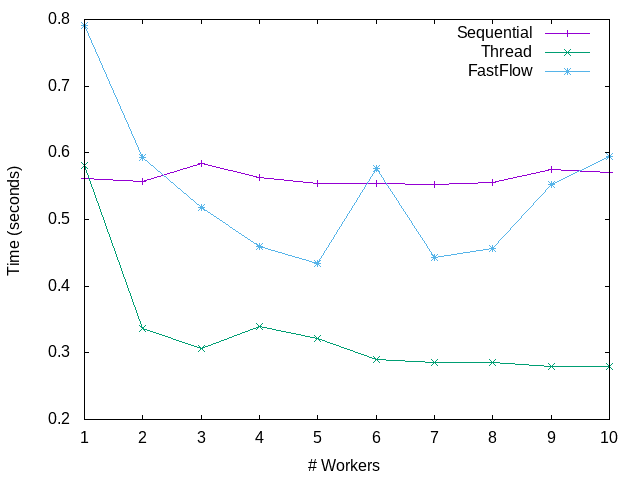
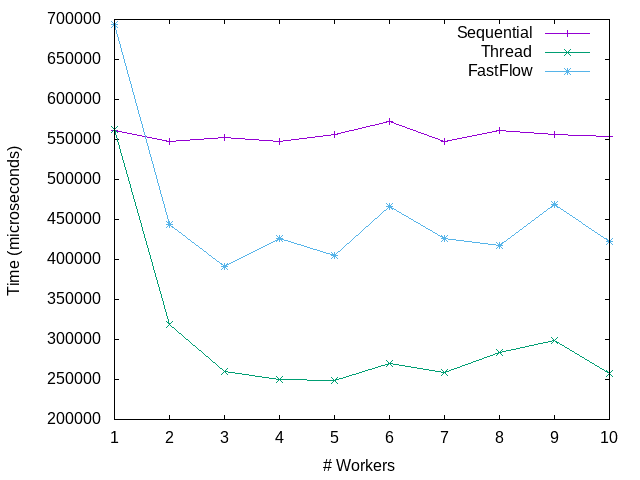
Added speedup plotting

diff --git a/main.cpp b/main.cpp
@@ -63,8 +63,8 @@ int main(int argc, char *argv[]){
 	high_resolution_clock::time_point start;
 	high_resolution_clock::time_point stop;
 
-	int cycle_time=0;
-	int program_time=0;
+	auto cycle_time=0;
+	auto program_time=0;
 
 	// ********************************* input reading /**********************************/
 	int N_NODES=10;
@@ -166,7 +166,7 @@ int main(int argc, char *argv[]){
 	    i++;
 
 	    program_end = high_resolution_clock::now();
-	    program_time = duration_cast<microseconds>(program_end - program_start).count();
+	    program_time = duration_cast<nanoseconds>(program_end - program_start).count();
 	    #ifdef VERBOSE
 	    log(i, POP_SIZE, NW, program_time, N_NODES);
 	    #endif
@@ -179,7 +179,7 @@ int main(int argc, char *argv[]){
 	program_time = duration_cast<microseconds>(program_end - program_start).count();
 	std::cout.flush();
 	std::cout << std::endl;
-	std::cout << "Seconds for " << i << " loops: " << program_time/1000000. << std::endl;
+	std::cout << "microeconds for " << i << " loops: " << program_time << std::endl;
 
 	#ifdef GRAPH
 	draw.close();

diff --git a/utilities.cpp b/utilities.cpp
@@ -46,7 +46,7 @@ int pick_candidate(std::vector<double> probabilities){
     return i;
 }
 
-void log(int i, int pop_size, int nw, int time, int n_nodes){
+void log(int i, int pop_size, int nw, long time, int n_nodes){
     std::cout << "#" << i << "; pop_size: " << pop_size << "; nw: " << nw << "; #nodes: " << n_nodes << "; time: " << (double)time/1000000 << "; thr: " << ((double)i/(double)time)*1000000 << "\r";
     std::cout.flush();
 }

diff --git a/utilities.h b/utilities.h
@@ -2,4 +2,4 @@
 
 int kbhit(void);
 int pick_candidate(std::vector<double>);
-void log(int, int, int, int, int);
+void log(int, int, int, long, int);
